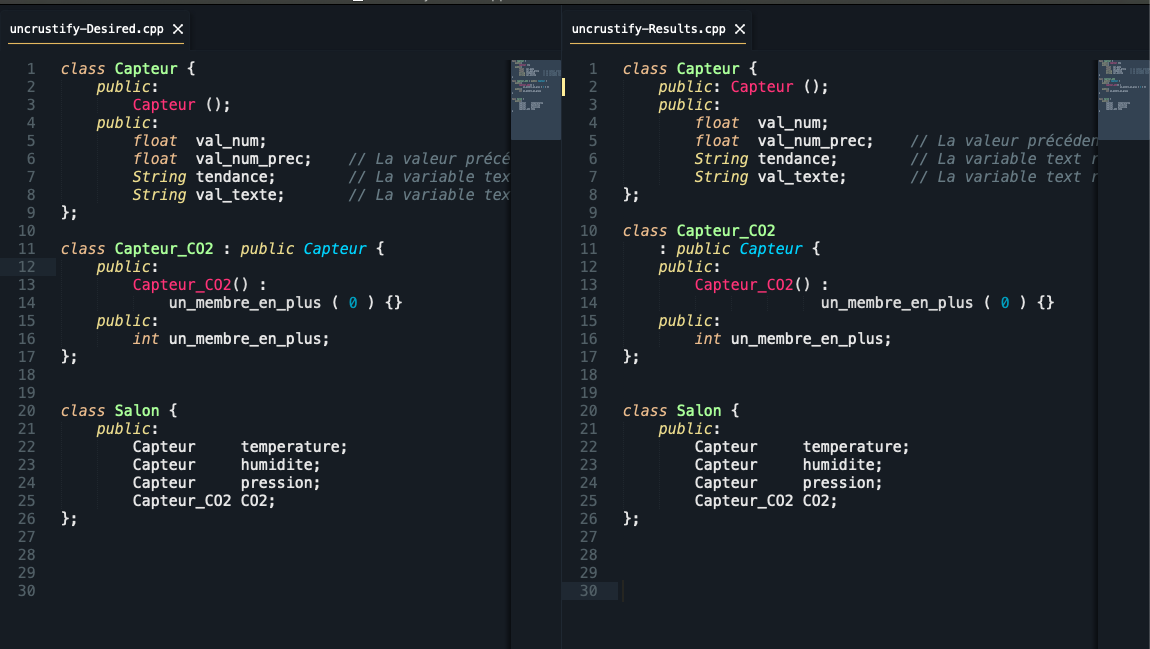
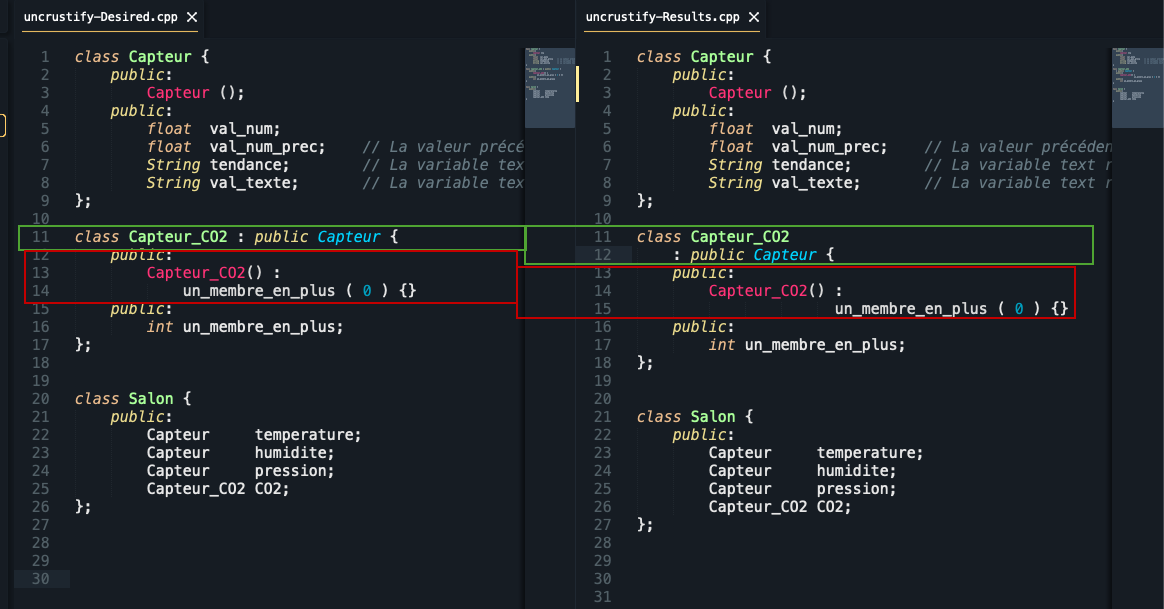
Add files via upload

diff --git a/uncrustify-Results.cpp b/uncrustify-Results.cpp
@@ -1,5 +1,6 @@
 class Capteur {
-    public: Capteur ();
+    public:
+        Capteur ();
     public:
         float  val_num;
         float  val_num_prec;    // La valeur précédente pour la comparaison
